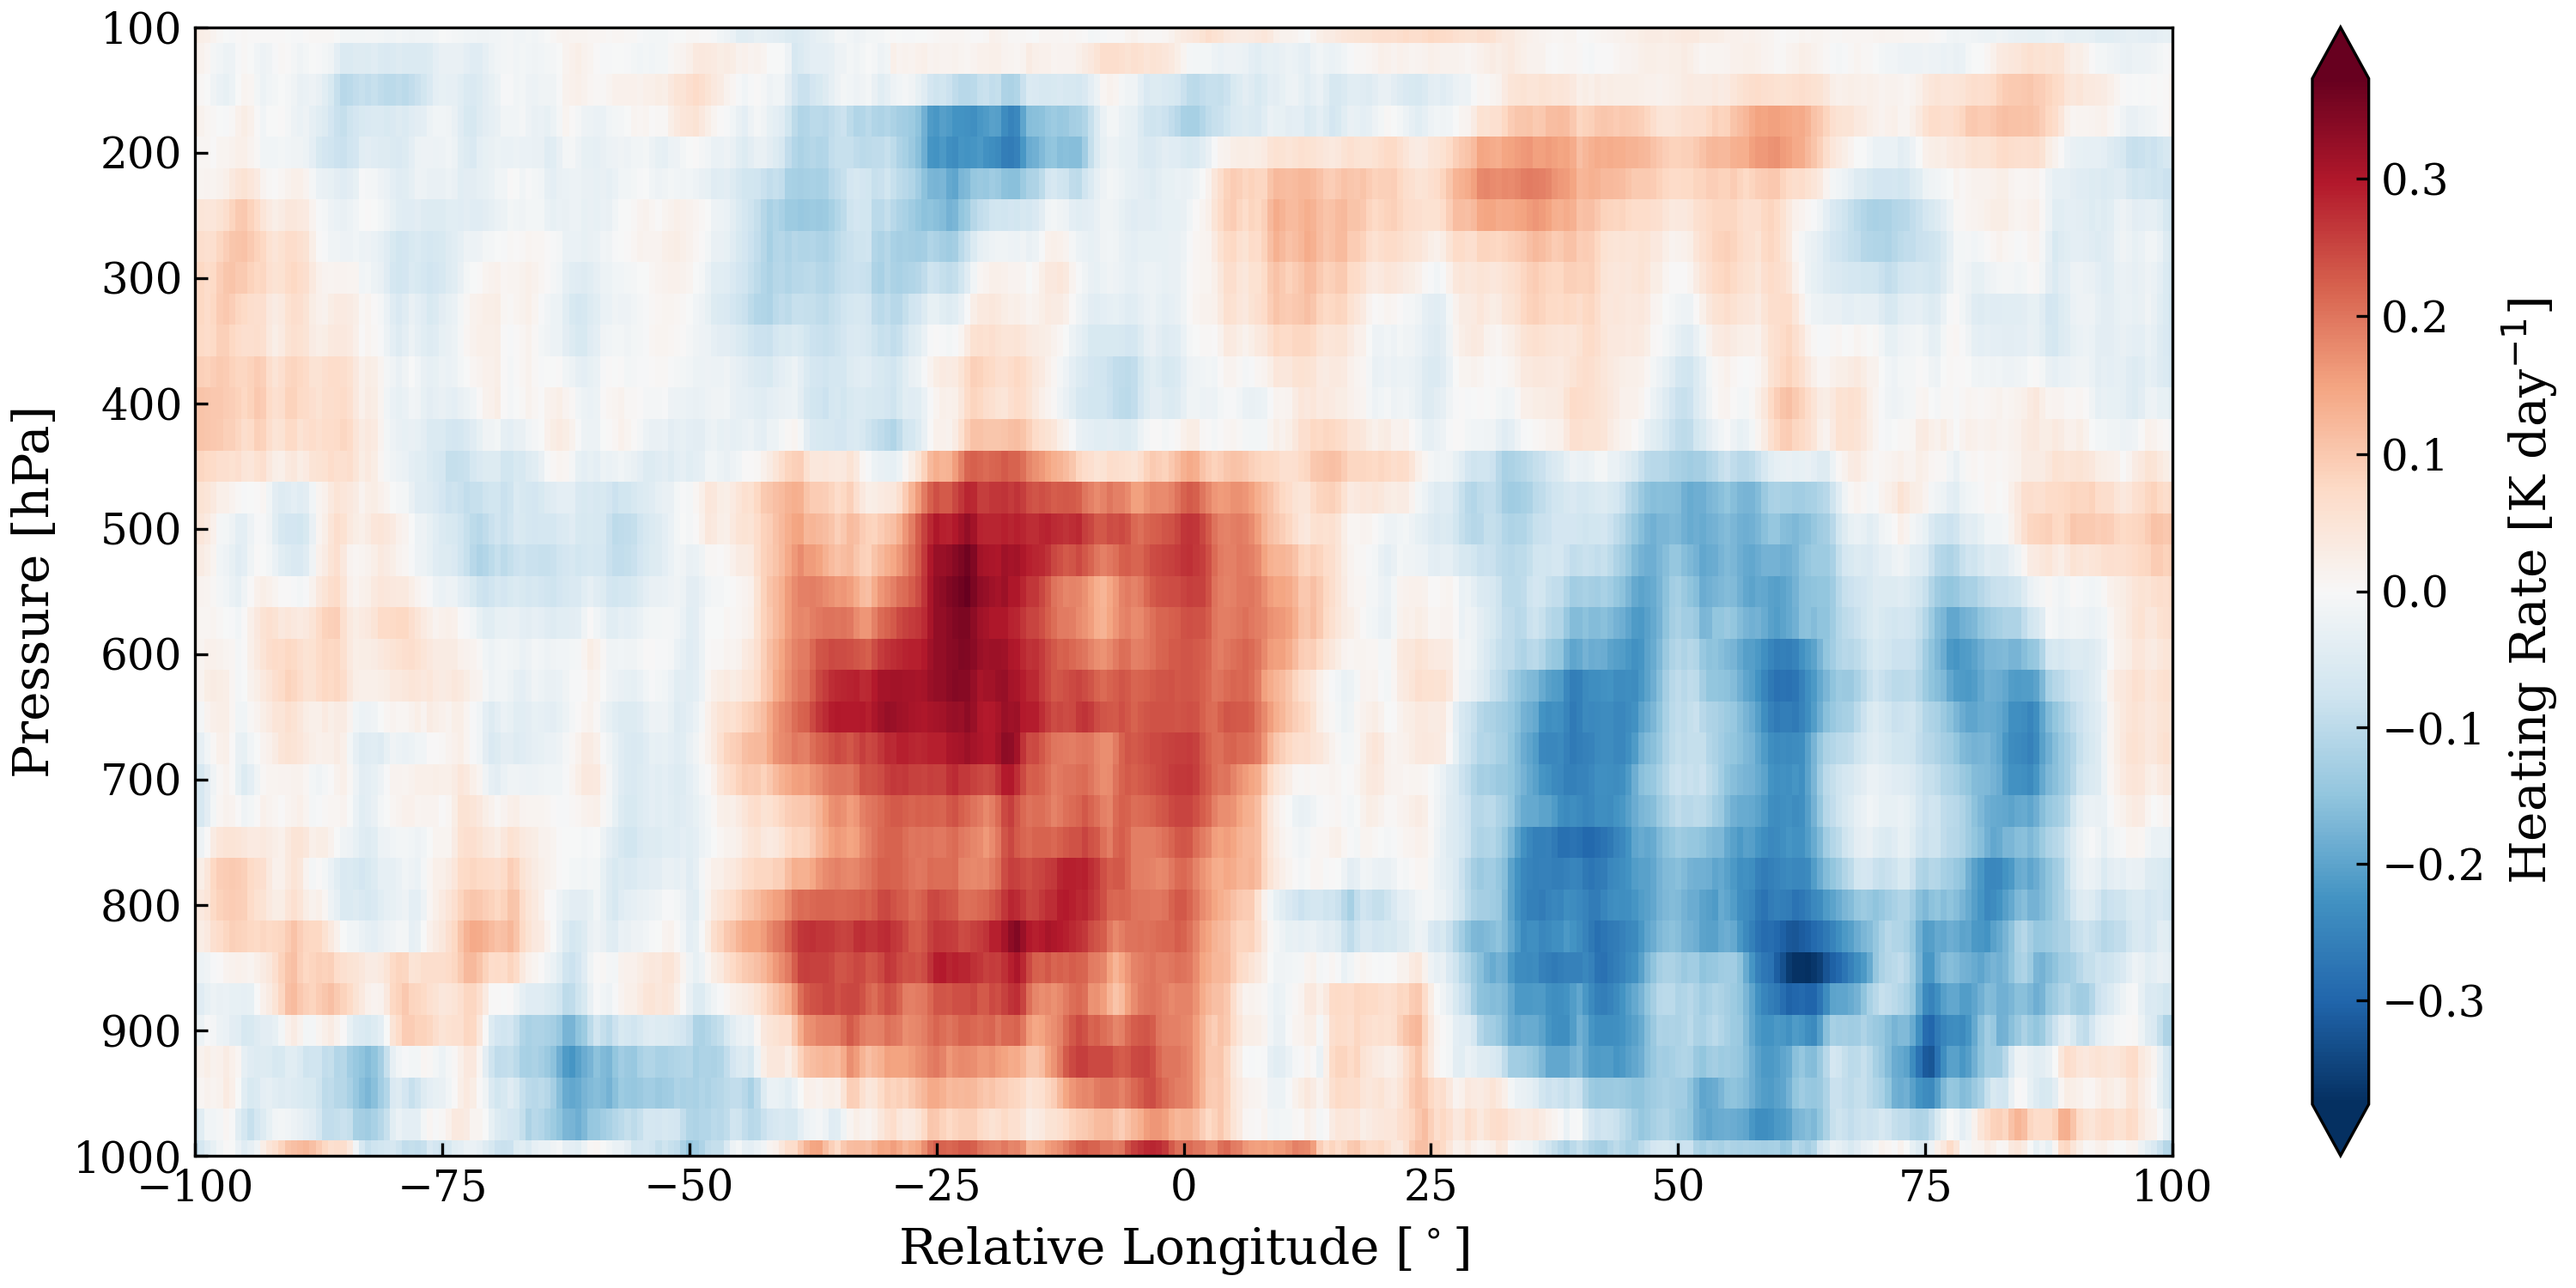
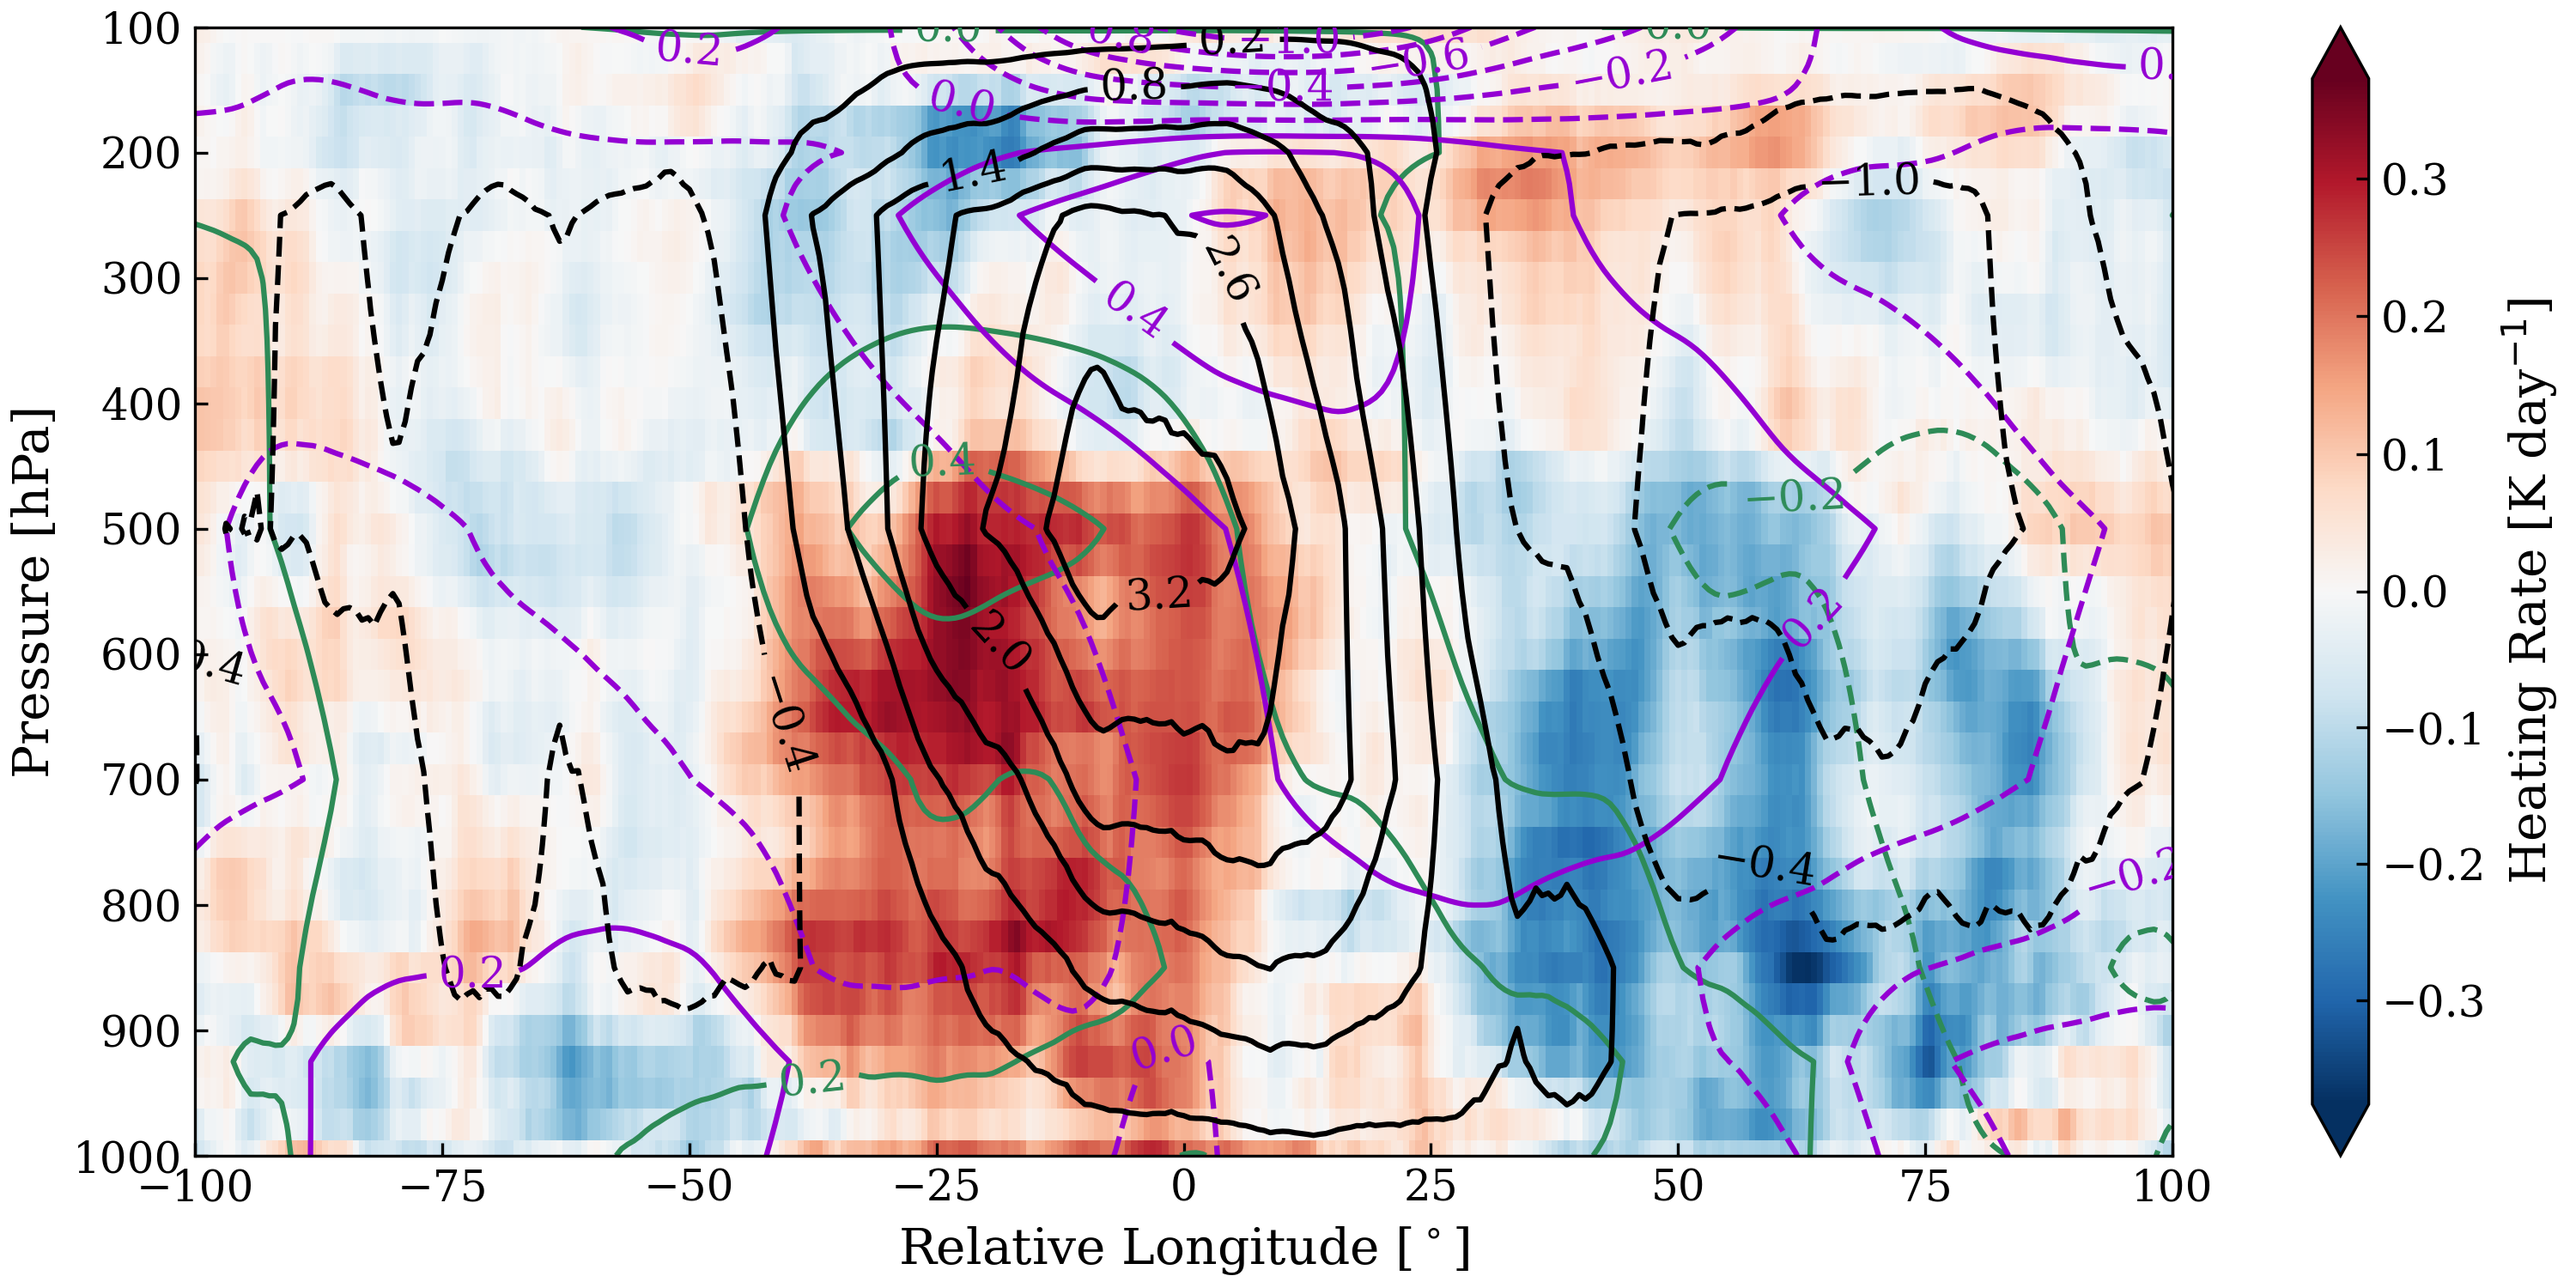
Update: Additional Contour on Composite Figure
Date: UTC+8 2025/01/30
Author: Yu-Chuan Kan
Description: Surplus moisture, temperature, and vertical motion on
radiative heating profile

diff --git a/Code/KWComposite/CloudSatComposite.py b/Code/KWComposite/CloudSatComposite.py
@@ -22,18 +22,65 @@ from matplotlib.colors import TwoSlopeNorm
 # =============================================================================
 # Helper Functions
 # =============================================================================
-def render_plot(data, levels, save_path):
+def render_plot(
+    CSData: np.ndarray,
+    QData: np.ndarray,
+    TData: np.ndarray,
+    WData: np.ndarray,
+    levels: np.ndarray,
+    save_path: Path,
+):
+    # Calculate levels for contourf
+    ## Find Maximum
+    QMax: float = np.nanmax(np.abs(QData * 1000.0)) // 0.1
+    TMax: float = np.nanmax(np.abs(TData * 1.0)) // 0.1
+    WMax: float = np.nanmax(np.abs(WData * -100.0)) // 0.5
+
+    ## Set levels
+    QLevels: np.ndarray = np.arange(-QMax, QMax + 0.2, 0.2)
+    TLevels: np.ndarray = np.arange(-TMax, TMax + 0.2, 0.2)
+    WLevels: np.ndarray = np.arange(-WMax, WMax + 0.6, 0.6)
+
+    ## Omit zeros
+    QLevels = QLevels[QLevels != 0.0]
+    TLevels = TLevels[TLevels != 0.0]
+    WLevels = WLevels[WLevels != 0.0]
+
+    # Create Figure
     fig, ax = plt.subplots(figsize=(10, 5), constrained_layout=True)
 
-    # Using 'shading=nearest' or 'gouraud' can be faster/smoother for large grids
     pcm = ax.pcolormesh(
         np.arange(-180, 180, 0.625),
         levels,
-        data,
+        CSData,
         cmap="RdBu_r",
         shading="auto",
         rasterized=True,
         norm=TwoSlopeNorm(vcenter=0),
+    )
+    ctq = ax.contour(
+        np.arange(-180, 180, 0.625),
+        levels,
+        QData * 1000.0,
+        colors="seagreen",
+        levels=QLevels,
+        linewidths=1.5,
+    )
+    ctt = ax.contour(
+        np.arange(-180, 180, 0.625),
+        levels,
+        TData * 1.0,
+        colors="darkviolet",
+        levels=TLevels,
+        linewidths=1.5,
+    )
+    ctw = ax.contour(
+        np.arange(-180, 180, 0.625),
+        levels,
+        WData * -100.0,
+        colors="black",
+        levels=WLevels,
+        linewidths=1.5,
     )
 
     ax.set_xlim(-100, 100)
@@ -41,6 +88,9 @@ def render_plot(data, levels, save_path):
     ax.set_xlabel(r"Relative Longitude [$^\circ$]")
     ax.set_ylabel("Pressure [hPa]")
 
+    ax.clabel(ctq, inline=True, fontsize=12)
+    ax.clabel(ctt, inline=True, fontsize=12)
+    ax.clabel(ctw, inline=True, fontsize=12)
     cbar = fig.colorbar(pcm, ax=ax, extend="both")
     cbar.set_label(r"Heating Rate [K day$^{-1}$]")
 
@@ -55,7 +105,14 @@ def render_plot(data, levels, save_path):
 # =============================================================================
 
 
-def main(minkn: float, maxkn: float, ds_mean: xr.Dataset) -> None:
+def main(
+    minkn: float,
+    maxkn: float,
+    CSDataset: xr.Dataset,
+    QDataset: xr.Dataset,
+    TDataset: xr.Dataset,
+    WDataset: xr.Dataset,
+) -> None:
     # ------------------------------------------
     # Load Files
     # ------------------------------------------
@@ -72,11 +129,18 @@ def main(minkn: float, maxkn: float, ds_mean: xr.Dataset) -> None:
     # Load Events
     Idx: pd.DataFrame = pd.read_csv(IdxPath)
 
-    # Load CloudSat data
-    ## Select time indices
-    subset: xr.Dataset = ds_mean.isel(time=Idx["time_idx"].values)
-    QlwAnom: xr.DataArray = subset["qlw"] - subset["qlw"].mean("lon", skipna=True)
-    QswAnom: xr.DataArray = subset["qsw"] - subset["qsw"].mean("lon", skipna=True)
+    # Select Data
+    CSSubset: xr.Dataset = CSDataset.isel(time=Idx["time_idx"].values)
+    QSubset: xr.Dataset = QDataset.isel(time=Idx["time_idx"].values)
+    TSubset: xr.Dataset = TDataset.isel(time=Idx["time_idx"].values)
+    WSubset: xr.Dataset = WDataset.isel(time=Idx["time_idx"].values)
+
+    # Calculate anomalous data
+    QlwAnom: xr.DataArray = CSSubset["qlw"] - CSSubset["qlw"].mean("lon", skipna=True)
+    QswAnom: xr.DataArray = CSSubset["qsw"] - CSSubset["qsw"].mean("lon", skipna=True)
+    QAnom: xr.DataArray = QSubset["q"] - QSubset["q"].mean("lon", skipna=True)
+    TAnom: xr.DataArray = TSubset["t"] - TSubset["t"].mean("lon", skipna=True)
+    WAnom: xr.DataArray = WSubset["w"] - WSubset["w"].mean("lon", skipna=True)
 
     Nt, Nz, Nx = QlwAnom.shape
     NxHalf: int = int(Nx // 2)
@@ -101,16 +165,37 @@ def main(minkn: float, maxkn: float, ds_mean: xr.Dataset) -> None:
         QswAnom.isel(time=i).roll(lon=int(s), roll_coords=False)
         for i, s in enumerate(shifts)
     ]
+    QRoll: List[xr.DataArray] = [
+        QAnom.isel(time=i).roll(lon=int(s), roll_coords=False)
+        for i, s in enumerate(shifts)
+    ]
+
+    TRoll: List[xr.DataArray] = [
+        TAnom.isel(time=i).roll(lon=int(s), roll_coords=False)
+        for i, s in enumerate(shifts)
+    ]
+
+    WRoll: List[xr.DataArray] = [
+        WAnom.isel(time=i).roll(lon=int(s), roll_coords=False)
+        for i, s in enumerate(shifts)
+    ]
 
     # Composite qlw and qsw
     QlwComp: np.ndarray = xr.concat(QlwRoll, dim="time").mean("time").values
     QswComp: np.ndarray = xr.concat(QswRoll, dim="time").mean("time").values
+    QComp: np.ndarray = xr.concat(QRoll, dim="time").mean("time").values
+    TComp: np.ndarray = xr.concat(TRoll, dim="time").mean("time").values
+    WComp: np.ndarray = xr.concat(WRoll, dim="time").mean("time").values
 
     # Running mean the profile
     RunningWindow: int = int(10 / 0.625)
 
     QlwComp = convolve1d(QlwComp, np.ones(RunningWindow) / RunningWindow, axis=-1)
     QswComp = convolve1d(QswComp, np.ones(RunningWindow) / RunningWindow, axis=-1)
+
+    QComp = convolve1d(QComp, np.ones(RunningWindow) / RunningWindow, axis=-1)
+    TComp = convolve1d(TComp, np.ones(RunningWindow) / RunningWindow, axis=-1)
+    WComp = convolve1d(WComp, np.ones(RunningWindow) / RunningWindow, axis=-1)
 
     # ------------------------------------------
     # Visulization
@@ -126,24 +211,42 @@ def main(minkn: float, maxkn: float, ds_mean: xr.Dataset) -> None:
         }
     )
 
-    render_plot(QlwComp, np.arange(1000, 100 - 25, -25), LWFigPath)
-    render_plot(QswComp, np.arange(1000, 100 - 25, -25), SWFigPath)
+    render_plot(QlwComp, QComp, TComp, WComp, np.arange(1000, 100 - 25, -25), LWFigPath)
+    render_plot(QswComp, QComp, TComp, WComp, np.arange(1000, 100 - 25, -25), SWFigPath)
 
 
 # =============================================================================
 # Execute Main Function
 # =============================================================================
 if __name__ == "__main__":
+
     # ------------------------------------------
-    # Load CloudSat Data
+    # Load Data
     # ------------------------------------------
+    # Setup File Path
     CloudSatPath: Path = Path("/work/DATA/Satellite/CloudSat/CloudSat_filtered.nc")
+    ERA5qPath: Path = Path("/work/b11209013/2024_Research/ERA5/q/q_sub.nc")
+    ERA5tPath: Path = Path("/work/b11209013/2024_Research/ERA5/t/t_sub.nc")
+    ERA5wPath: Path = Path("/work/b11209013/2024_Research/ERA5/w/w_Itp_sub.nc")
 
+    # Load CloudSat
     with xr.open_dataset(CloudSatPath, chunks={}) as ds:
-        ds_mean: xr.Dataset = ds.sel(lat=slice(-15, 15)).mean("lat", skipna=True)
+        CSDataset: xr.Dataset = ds.sel(lat=slice(-15, 15)).mean("lat", skipna=True)
 
-        Minkn: List[float] = [1, 3, 5, 7, 9, 11, 13, 1, 1]
-        Maxkn: List[float] = [3, 5, 7, 9, 11, 13, 15, 15, 11]
+    # Load q data
+    with xr.open_dataset(ERA5qPath, chunks={}) as ds:
+        QDataset: xr.Dataset = ds
 
-        for i in tqdm(range(len(Minkn)), desc=f"Progrssing {CloudSatPath.name}"):
-            main(Minkn[i], Maxkn[i], ds_mean)
+    # Load t data
+    with xr.open_dataset(ERA5tPath, chunks={}) as ds:
+        TDataset: xr.Dataset = ds
+
+    # Load w data
+    with xr.open_dataset(ERA5wPath, chunks={}) as ds:
+        WDataset: xr.Dataset = ds.mean("lat", skipna=True)
+
+    Minkn: List[float] = [1, 3, 5, 7, 9, 11, 13, 1, 1]
+    Maxkn: List[float] = [3, 5, 7, 9, 11, 13, 15, 15, 11]
+
+    for i in tqdm(range(len(Minkn)), desc=f"Progrssing {CloudSatPath.name}"):
+        main(Minkn[i], Maxkn[i], CSDataset, QDataset, TDataset, WDataset)
